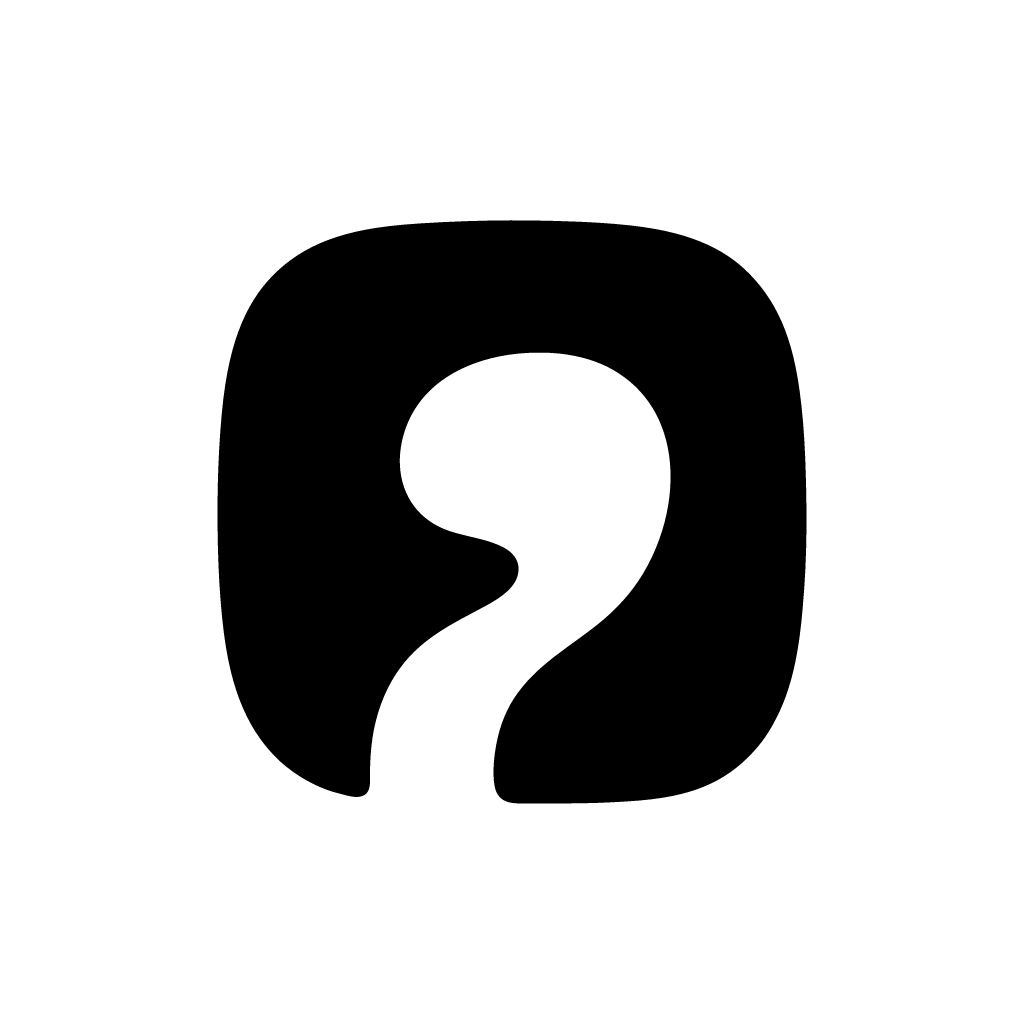
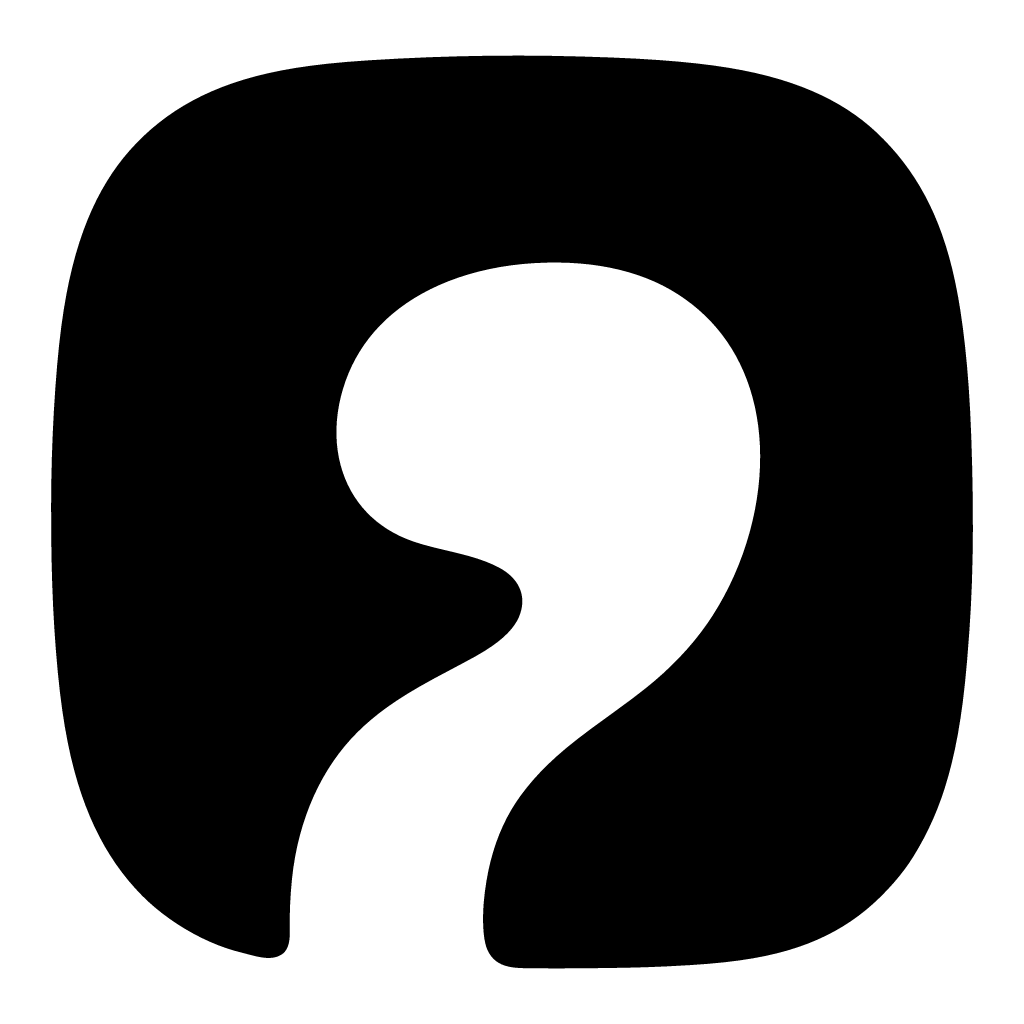
Simplify desktop window chrome and enlarge taskbar branding

diff --git a/services/frontend/scripts/desktop.test.js b/services/frontend/scripts/desktop.test.js
@@ -2,8 +2,54 @@ import { test } from 'node:test'
 import assert from 'node:assert/strict'
 import { resolve } from 'node:path'
 import security from '../desktop/security.cjs'
+import { windowChrome, OVERLAY_HEIGHT } from '../desktop/window-chrome.cjs'
+import { readFileSync } from 'node:fs'
+import vm from 'node:vm'
 
 const { trustedRenderer, externalURL, assetPath } = security
+
+test('Windows and Linux retain native controls without title/icon chrome; macOS is unchanged', () => {
+  for (const platform of ['win32', 'linux']) {
+    const options = windowChrome(platform)
+    assert.equal(options.titleBarStyle, 'hidden')
+    assert.equal(options.titleBarOverlay.height, 32)
+    assert.notEqual(options.frame, false) // Never replace native caption buttons with web buttons.
+  }
+  assert.deepEqual(windowChrome('darwin'), {})
+  const app = readFileSync(new URL('../src/App.vue', import.meta.url), 'utf8')
+  assert.ok(app.includes(`padding-top: ${OVERLAY_HEIGHT}px`))
+  assert.ok(app.includes(`height: ${OVERLAY_HEIGHT}px`))
+})
+
+test('sandboxed preload exposes only read-only chrome state and handles fullscreen', () => {
+  const source = readFileSync(new URL('../desktop/preload.cjs', import.meta.url), 'utf8')
+  for (const platform of ['win32', 'linux', 'darwin']) {
+    let bridge, listener, fullscreenClass
+    vm.runInNewContext(source, {
+      process: { platform },
+      require: name => {
+        assert.equal(name, 'electron')
+        return {
+          contextBridge: { exposeInMainWorld: (_name, value) => { bridge = value } },
+          ipcRenderer: { on: (channel, callback) => {
+            assert.equal(channel, 'window:fullscreen'); listener = callback
+          } }
+        }
+      },
+      document: { documentElement: { classList: { toggle: (name, value) => {
+        assert.equal(name, 'desktop-fullscreen'); fullscreenClass = value
+      } } } }
+    })
+    assert.equal(bridge.windowControlsOverlay, platform !== 'darwin')
+    assert.deepEqual(Object.keys(bridge).sort(), ['oauth', 'windowControlsOverlay'])
+    listener({}, true)
+    assert.equal(fullscreenClass, true)
+    listener({}, false)
+    assert.equal(fullscreenClass, false)
+    listener({}, 'true')
+    assert.equal(fullscreenClass, false)
+  }
+})
 
 test('desktop only trusts its bundled origin and opens web URLs externally', () => {
   assert.equal(trustedRenderer('capacitor://localhost/'), true)

diff --git a/services/frontend/src/App.vue b/services/frontend/src/App.vue
@@ -1,5 +1,6 @@
 <template>
-  <div class="app-frame">
+  <div class="app-frame" :class="{ 'app-frame--desktop-overlay': desktopOverlay }">
+    <div v-if="desktopOverlay" class="desktop-titlebar" aria-hidden="true" />
     <EnvironmentBanner />
     <div v-if="['reconnecting', 'failed'].includes(store.liveStatus) && !store.needsToken" class="connection-notice" role="status" aria-label="Live connection">
       {{ store.liveStatus === 'failed' ? 'Live updates are disconnected.' : 'Connection interrupted. Reconnecting automatically…' }}
@@ -78,6 +79,7 @@ import { currentTokens, preferences } from './preferences'
 import { syncSystemBars } from './system-bars'
 import { useChatActivity } from './chat-activity'
 
+const desktopOverlay = globalThis.nautionetteDesktop?.windowControlsOverlay === true
 const DEFAULT_WIDTH = 320
 const route = useRoute()
 const router = useRouter()
@@ -213,6 +215,23 @@ onUnmounted(() => {
   height: 100%;
   min-height: 0;
 }
+
+/* This strip is outside scrollable/interactive content, including modal
+   backdrops. Electron draws the native caption buttons above its right edge.
+   Physical CSS pixels intentionally do not follow the app's font-size setting. */
+.app-frame--desktop-overlay { padding-top: 32px; }
+.desktop-titlebar {
+  position: fixed;
+  inset: 0 0 auto;
+  height: 32px;
+  z-index: 10000;
+  background: #202020;
+  -webkit-app-region: drag;
+  app-region: drag;
+  user-select: none;
+}
+:global(.desktop-fullscreen) .app-frame--desktop-overlay { padding-top: 0; }
+:global(.desktop-fullscreen) .desktop-titlebar { display: none; }
 
 .shell {
   flex: 1;

diff --git a/services/frontend/scripts/native-brand.test.js b/services/frontend/scripts/native-brand.test.js
@@ -18,16 +18,17 @@ test('Android changes display resources, never package or URI identifiers', () =
   assert.equal(configureAndroidStrings(strings), strings)
 })
 
-test('launcher exports have platform dimensions and Electron uses the same master', () => {
-  for (const [name, size] of [['app-icon.png', 1024], ['ic_launcher.png', 192], ['ic_launcher_foreground.png', 432]]) {
+test('launcher exports have platform dimensions and Electron uses the larger desktop master', () => {
+  for (const [name, size] of [['app-icon.png', 1024], ['desktop-icon.png', 1024], ['ic_launcher.png', 192], ['ic_launcher_foreground.png', 432]]) {
     const png = readFileSync(join(frontend, 'native/icons', name))
     assert.equal(png.subarray(1, 4).toString(), 'PNG')
     assert.equal(png.readUInt32BE(16), size)
     assert.equal(png.readUInt32BE(20), size)
   }
   for (const path of ['build/icon.png', 'desktop/icon.png']) {
-    assert.deepEqual(readFileSync(join(frontend, path)), readFileSync(join(frontend, 'native/icons/app-icon.png')))
+    assert.deepEqual(readFileSync(join(frontend, path)), readFileSync(join(frontend, 'native/icons/desktop-icon.png')))
   }
+  assert.notDeepEqual(readFileSync(join(frontend, 'desktop/icon.png')), readFileSync(join(frontend, 'native/icons/app-icon.png')))
 })
 
 test('iOS sync installs the approved icon into the current Capacitor template', () => {

diff --git a/tests/test_branding.py b/tests/test_branding.py
@@ -74,10 +74,28 @@ def test_legacy_and_adaptive_android_icons_use_the_same_visible_scale():
     legacy, adaptive = android_launcher_images()
     assert legacy.size == adaptive.size == (192, 192)
     assert max(ImageStat.Stat(ImageChops.difference(legacy, adaptive)).mean) < 1
-    # The iOS/desktop square is deliberately still separate, with white padding.
+    # The iOS square is deliberately still separate, with white padding.
     with Image.open(ROOT / "branding/native/app-icon.png") as universal:
         assert universal.size == (1024, 1024)
         assert universal.convert("RGB").getpixel((0, 0)) == (255, 255, 255)
+
+
+@pytest.mark.parametrize("size", [16, 24, 32, 48, 256, 1024])
+def test_desktop_icon_fills_os_icon_slots_without_changing_mobile_artwork(size):
+    with Image.open(ROOT / "branding/native/desktop-icon.png") as source:
+        assert source.size == (1024, 1024)
+        icon = source.convert("RGB").resize((size, size), Image.Resampling.LANCZOS)
+    # Measure the actual black mark, not the opaque-white canvas. Keep about
+    # 5% padding per side even at Windows taskbar/title-bar sizes.
+    dark = icon.convert("L").point(lambda value: 255 if value < 128 else 0)
+    left, top, right, bottom = dark.getbbox()
+    assert 0.85 <= (right - left) / size <= 0.96
+    assert 0.85 <= (bottom - top) / size <= 0.96
+    assert left > 0 and top > 0 and right < size and bottom < size
+    with Image.open(ROOT / "branding/native/app-icon.png") as source:
+        mobile_dark = source.convert("L").point(lambda value: 255 if value < 128 else 0)
+        x1, _, x2, _ = mobile_dark.getbbox()
+        assert 0.55 < (x2 - x1) / source.width < 0.60
 
 
 @pytest.mark.parametrize("shape", ["circle", "squircle", "rounded-square"])

diff --git a/scripts/sync_brand.py b/scripts/sync_brand.py
@@ -102,14 +102,17 @@ def expected_files(root: Path = ROOT) -> dict[Path, bytes]:
         for name in [
             "app-icon.svg",
             "app-icon.png",
+            "desktop-icon.svg",
+            "desktop-icon.png",
             "android-icon.svg",
             "android-foreground.svg",
             "ic_launcher.png",
             "ic_launcher_foreground.png",
         ]:
             files[frontend / "native/icons" / name] = (native / name).read_bytes()
-        for destination in ["build/icon.png", "desktop/icon.png", "public/brand/app-icon.png"]:
-            files[frontend / destination] = (native / "app-icon.png").read_bytes()
+        files[frontend / "public/brand/app-icon.png"] = (native / "app-icon.png").read_bytes()
+        for destination in ["build/icon.png", "desktop/icon.png"]:
+            files[frontend / destination] = (native / "desktop-icon.png").read_bytes()
     for design in sorted((frontend / "src/skin-examples").glob("*.skin.json")):
         text = re.sub(
             r'("author"\s*:\s*)"[^"]*"',

diff --git a/services/frontend/native/icons/README.md b/services/frontend/native/icons/README.md
@@ -5,7 +5,7 @@ in `services/frontend/build/`, `services/frontend/desktop/` and `public/brand/`
 are synchronized by `python scripts/sync_brand.py`. Do not edit the canonical
 `branding/logo.svg` as a side effect of export.
 
-## iOS and desktop
+## iOS
 
 `app-icon.svg` is the approved `branding/logo.svg` artwork, centered unchanged on
 a square white canvas. It was opened/exported with native VectorCraft 0.23.0;
@@ -13,14 +13,25 @@ only the artboard padding and white background were added. The mark occupies
 about 58% of the square. No corners are baked into the canvas.
 
 - `app-icon.png`: 1024 × 1024 opaque-white iOS App Store icon.
-- `../../build/icon.png`: the same export, in electron-builder's default build
-  resources directory. Electron-builder derives platform icons without changing
-  application IDs, signing identities or installer names.
-- `../../desktop/icon.png`: the same export, bundled via `desktop/**/*` for
-  Electron's runtime BrowserWindow icon (not just the installer/application icon).
 
 The iOS sync uses the current Capacitor template's single universal AppIcon slot.
 Re-export the 512-point artboard at scale 2 after changing the logo.
+
+## Desktop (Windows, Linux and macOS)
+
+`desktop-icon.svg` / `desktop-icon.png` are separate VectorCraft exports for the
+small OS icon slots. The original black mark is scaled **156.5% around (256, 256)**
+on the same 512-point white artboard, occupying about **90%**, rather than iOS's
+58%. The logo geometry, white negative space and mobile exports are unchanged.
+Export at scale 2 for the 1024 × 1024 PNG. Do not copy iOS's padded icon back here.
+
+- `../../build/icon.png`: desktop export in electron-builder's default build
+  resources directory; it derives multi-resolution Windows ICO and other OS icons.
+- `../../desktop/icon.png`: identical desktop export, bundled via `desktop/**/*`
+  for Electron's runtime BrowserWindow/taskbar icon, not just the installer.
+
+Both copies are synchronized from `branding/native/desktop-icon.png`. Pixel
+regressions measure the actual mark at 16/24/32/48/256/1024px to catch excess padding.
 
 ## Android
 

diff --git a/branding/README.md b/branding/README.md
@@ -28,10 +28,11 @@ recovery start with Denkzeug. The 125% interface-size default is retained.
 ## Native artwork
 
 `native/` holds the VectorCraft-exported artwork and 1024/432/192px PNGs.
-iOS/desktop use the padded square; Android uses a separate transparent white
+iOS uses the padded square; desktop uses a separate 90%-occupancy export so the
+mark stays legible in small Windows taskbar and other OS icon slots. Android uses a separate transparent white
 negative-space glyph on a full-bleed black adaptive background, with no baked-in
 outer corners. Its open tail intentionally extends to the launcher's mask.
-After changing the canonical logo, re-export both platform variants with the
+After changing the canonical logo, re-export all platform variants with the
 documented proportions and update `native/source.sha256` to the canonical SVG's SHA-256.
 The sync script refuses stale source provenance, then copies the exports into
 Android/iOS sync resources, the Electron installer resources, and the window icon.
